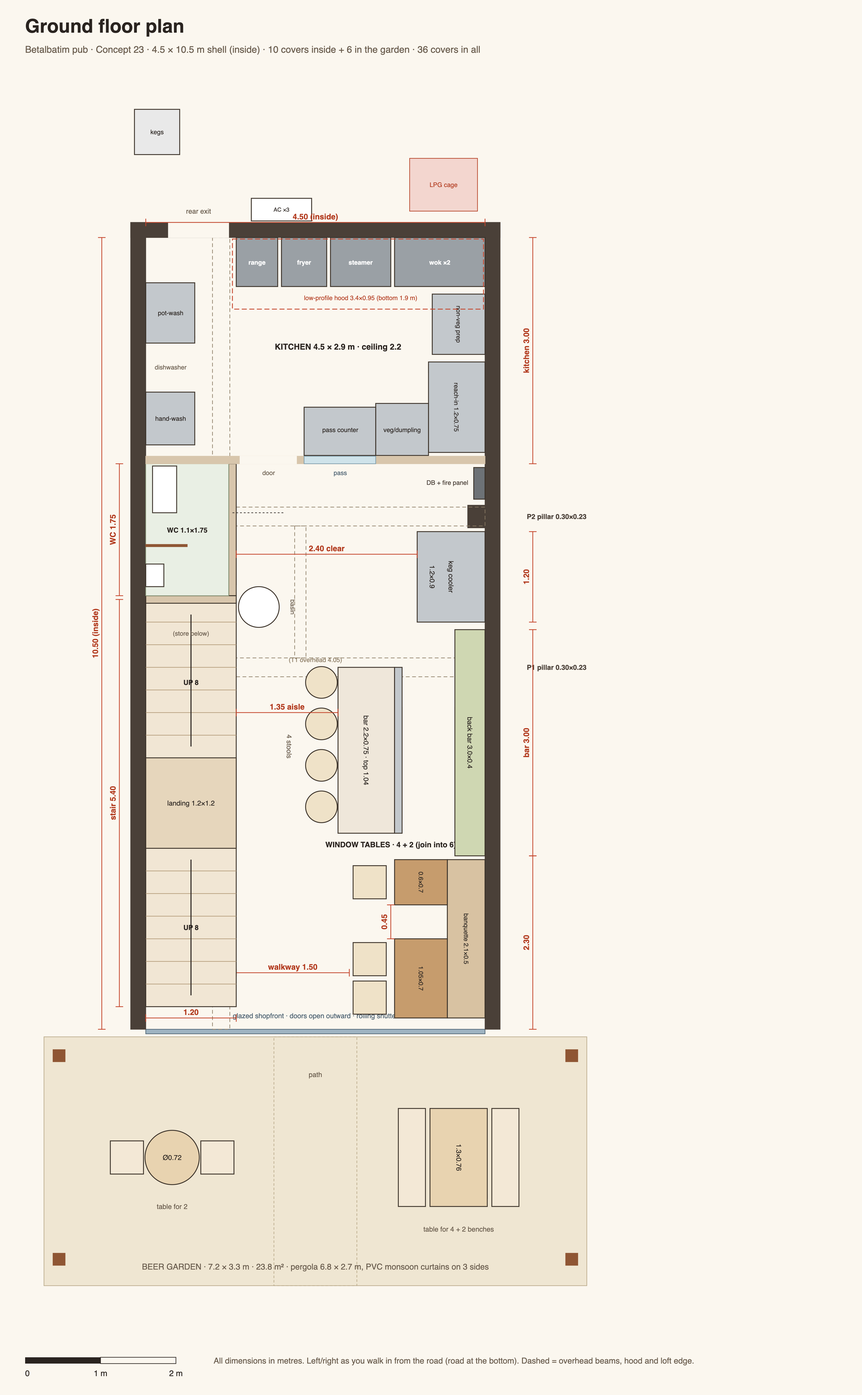
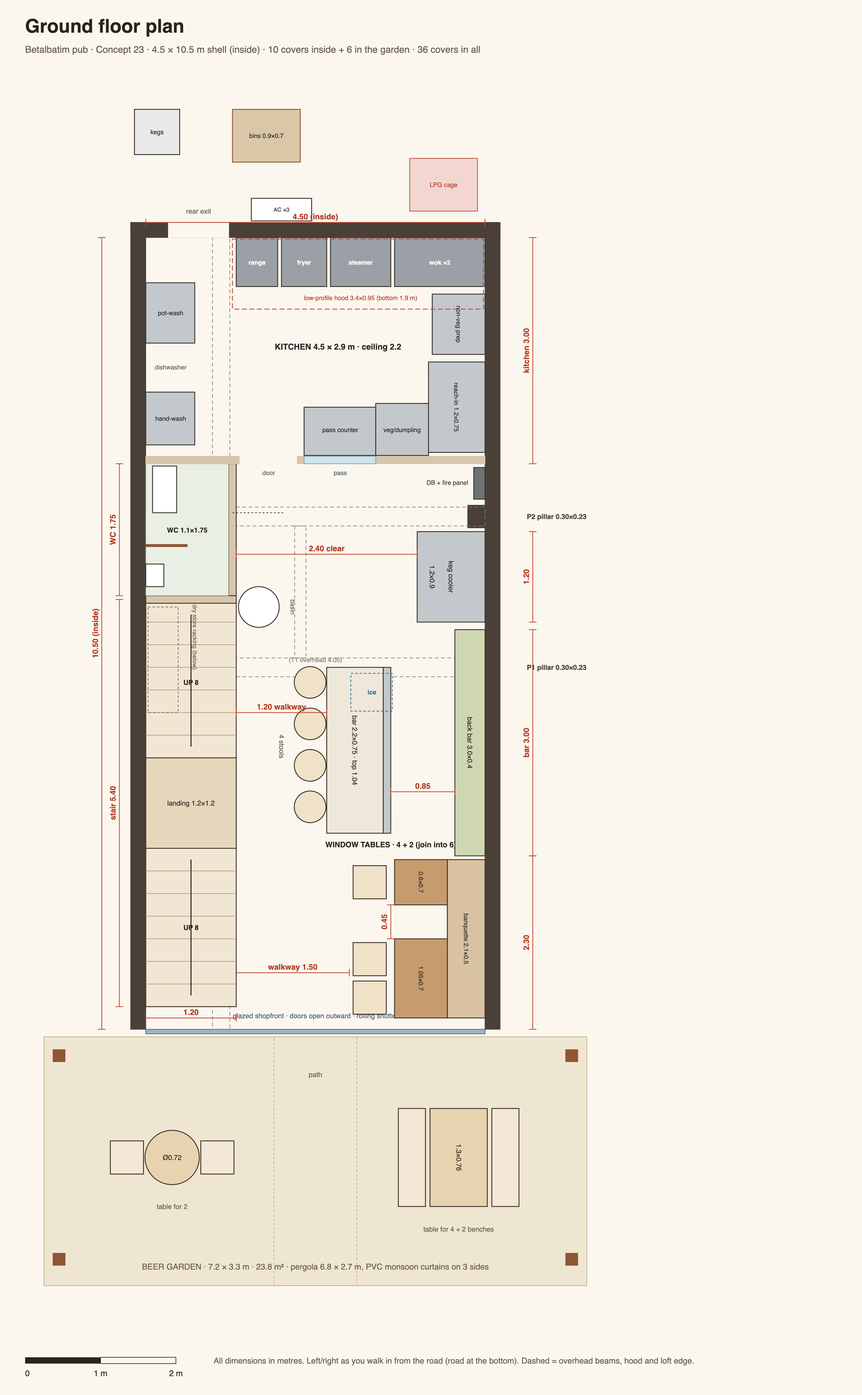
Pub model: ice machine, wider bartender aisle, bin store, dry store, front-bay fan
- Bar counter moved 0.15 m toward the walkway: bartender aisle 0.85 m
  (was 0.7); walkway beside the stools 1.2 m
- Under-counter ice machine (0.5 x 0.55 x 0.8, ~50 kg/day) at the far end
  of the bar, bartender side
- Bin store outside the rear door: slatted, lidded, wet/dry/glass bins,
  about 1.5 m from the LPG cage
- Dry-store racking (4 tiers, 1.4 x 0.4 x 1.8) in the locked under-stair
  store
- Front bay: 0.9 m hugger ceiling fan over the left high table (blades
  1.90 m above the loft floor)
- Labels, size list, size tags and both floor-plan PNGs updated

Changed region(s): [[0.312, 0.4676, 0.4679, 0.6234], [0.2496, 0.0623, 0.3743, 0.1247]]

diff --git a/betalbatim-pub-3d.html b/betalbatim-pub-3d.html
@@ -257,7 +257,8 @@ details.dims td.d{font:500 12px/1.45 var(--mono);color:var(--muted);text-align:r
       </table></details>
       <details class="dims" id="sz-bar"><summary>Bar &amp; back bar · 5.9 m² + 1.5 m² stool zone</summary><table>
         <tr><td>Bar counter</td><td class="d">2.2 L × 0.75 D m · top 1.04 H · curved end R 0.38 m</td></tr>
-        <tr><td>Bartender aisle</td><td class="d">0.7 m clear</td></tr>
+        <tr><td>Bartender aisle</td><td class="d">0.85 m clear (counter moved 0.15 m toward the walkway)</td></tr>
+        <tr><td>Ice machine (under-counter)</td><td class="d">0.5 W × 0.55 D × 0.8 H · ~50 kg/day, 20 kg bin · drain + water</td></tr>
         <tr><td>Under-counter station</td><td class="d">0.2 × 2.2 m: speed rail, ice well, sink, glasswasher</td></tr>
         <tr><td>Bar chairs (4)</td><td class="d">seat Ø 0.42 at 0.78 H · back to 1.21 H · 0.55 m apart</td></tr>
         <tr><td>Taps</td><td class="d">6 on 2 brass fonts, 1.1 m apart</td></tr>
@@ -324,6 +325,7 @@ details.dims td.d{font:500 12px/1.45 var(--mono);color:var(--muted);text-align:r
         <tr><td>Fresh-air supply grille</td><td class="d">0.55 × 0.42 m</td></tr>
       </table></details>
       <details class="dims" id="sz-loft"><summary>Loft · 20 covers · 22.6 m²</summary><table>
+        <tr><td>Ceiling fan (front bay)</td><td class="d">0.9 m hugger, 0.22 m drop · blades 1.90 m above the loft floor · centred over the left high table</td></tr>
         <tr><td>Front bay (5.4–6.7 m, full width)</td><td class="d">3.3 × 1.3 m · 2.12 m clear (1.87 under beam B) · drink ledge 0.28 D at 1.04 m on the rail · 2 round high tables Ø 0.6 × 1.05 H, 4 high chairs (seat 0.73)</td></tr>
         <tr><td>Planter under beam T2</td><td class="d">3.2 L × 0.22 D × 0.45 H m (keeps people out from under the 1.72 m beam)</td></tr>
         <tr><td>Landing bridge (left wall)</td><td class="d">1.2 W × 1.25 L m · 2.12 m clear · glass guard</td></tr>
@@ -416,6 +418,8 @@ details.dims td.d{font:500 12px/1.45 var(--mono);color:var(--muted);text-align:r
         <tr><td>Lit EXIT signs · <b>3</b></td><td class="d">maintained</td></tr>
       </table></details>
       <details class="dims" id="sz-services"><summary>Services, safety &amp; security</summary><table>
+        <tr><td>Bin store (outside, by the rear door)</td><td class="d">0.9 × 0.7 × 1.1 m · slatted, lidded · wet / dry / glass · ~1.5 m from the LPG cage</td></tr>
+        <tr><td>Dry-store racking (under-stair store)</td><td class="d">4 tiers · 1.4 L × 0.4 D × 1.8 H · steel</td></tr>
         <tr><td>AC total</td><td class="d">~5 TR: 2 × 1.5 TR ground + 2.0 TR loft · 3 outdoor units 0.8 × 0.55 × 0.3 m</td></tr>
         <tr><td>Kitchen exhaust duct</td><td class="d">0.5 × 0.4 m</td></tr>
         <tr><td>Fresh-air intake fan</td><td class="d">0.7 × 0.48 m</td></tr>
@@ -888,30 +892,34 @@ const SK=(shape,gl,cap,i)=>[shape,gl,cap,sBase+i];
 // a few working bottles and bitters on the back-bar top, in front of the altar
 [[3.42,SK('liq','ruby','gold',11)],[4.28,SK('gin','blue','silver',9)]].forEach(([z,k])=>bottle(k,X0+0.36,0.96,z,gr));
 [3.48,3.52,4.22].forEach((z,i)=>cyl(0.018,0.02,0.1,X0+0.4,0.96,z,glassT.amber,gr,8));
-for(let i=0;i<8;i++) bottle(KINDS[[3,2,4,6,3,1,9,2][i]],-1.05,0.55,2.85+i*0.12,gr);
+// BAR COUNTER group, moved 0.15 m toward the walkway so the bartender aisle is 0.85 m (was 0.7)
+const barG=new THREE.Group();barG.position.x=0.15;gr.add(barG);
+for(let i=0;i<8;i++) bottle(KINDS[[3,2,4,6,3,1,9,2][i]],-1.05,0.55,2.85+i*0.12,barG);
 bx(X0+0.03,X0+0.09,2.78,3.46,2.35,3.55,M.black,gr); plane(1.14,0.62,M.tv,X0+0.095,3.12,2.95,Math.PI/2,gr);
 [[bb0+0.05,3.3],[bb1-0.04,1.4]].forEach(([z,h])=>cyl(0.022,0.022,h,X0+0.07,0.96,z,M.neonRed,gr,8));
-bx(-0.95,-0.47,0.06,0.96,c0,c1,M.onyxGlow,gr); bx(-0.95,-0.45,0,0.06,c0,c1,M.black,gr); bx(-1.05,-0.3,0.98,1.04,c0,c1,M.marble,gr);
-bx(-0.47,-0.445,0.96,0.98,c0,c1,M.black,gr,false); plane(c1-c0,0.9,M.meshWire,-0.44,0.51,(c0+c1)/2,Math.PI/2,gr);
-for(let z=c0;z<=c1+0.01;z+=0.55) bx(-0.45,-0.42,0.06,0.96,z-0.015,z+0.015,M.black,gr);
-{const e=new THREE.Mesh(new THREE.CylinderGeometry(0.25,0.25,0.9,24,1,false,Math.PI/2,Math.PI),M.onyxGlow);e.position.set(-0.7,0.51,c0);gr.add(e);const em=new THREE.Mesh(new THREE.CylinderGeometry(0.262,0.262,0.9,24,1,true,Math.PI/2,Math.PI),M.meshWire);em.position.set(-0.7,0.51,c0);gr.add(em);const eb=new THREE.Mesh(new THREE.CylinderGeometry(0.26,0.26,0.06,24,1,false,Math.PI/2,Math.PI),M.black);eb.position.set(-0.7,0.03,c0);gr.add(eb);
- const t=new THREE.Mesh(new THREE.CylinderGeometry(0.375,0.375,0.06,24,1,false,Math.PI/2,Math.PI),M.marble);t.position.set(-0.675,1.01,c0);gr.add(t);
- const l=new THREE.Mesh(new THREE.CylinderGeometry(0.31,0.31,0.025,24,1,false,Math.PI/2,Math.PI),M.led);l.position.set(-0.69,0.955,c0);gr.add(l);}
-bx(-0.32,-0.29,0.97,1.045,c0,c1,M.brass,gr,false);
-bx(-0.36,-0.33,0.94,0.965,c0,c1,M.led,gr,false);
-bx(-0.46,-0.44,0.03,0.07,c0,c1,M.led,gr,false);
-rod(V(-0.27,0.22,c0),V(-0.27,0.22,c1),0.024,M.brass,gr);
-bx(-1.15,-0.95,0,0.85,c0,c1,M.ss,gr); bx(-1.13,-0.97,0.75,0.86,2.9,3.5,M.porcelain,gr); bx(-1.13,-0.97,0.7,0.86,4.0,4.4,M.ssDark,gr);
-[3.2,4.3].forEach((z,k)=>{cyl(0.045,0.05,0.42,-0.85,1.04,z,M.brass,gr);rod(V(-0.85,1.46,z-0.27),V(-0.85,1.46,z+0.27),0.034,M.brass,gr);
-  [-0.22,0,0.22].forEach((o,i)=>{cyl(0.012,0.012,0.08,-0.85,1.38,z+o,M.brass,gr,8);cyl(0.02,0.014,0.15,-0.85,1.48,z+o,cush[(i+k*2)%5],gr,8);});});
-[2.95,3.5,4.05,4.6].forEach(z=>stool(-0.08,z,gr));
-bx(-1.15,-0.35,2.63,2.65,c0+0.1,BZ-0.1,M.shelfGlass,gr,false); [-1.15,-0.35].forEach(x=>{[2.62,2.86].forEach(y=>rod(V(x,y,c0+0.1),V(x,y,BZ-0.1),0.014,M.brass,gr));bx(x-0.012,x+0.012,2.6,2.615,c0+0.1,BZ-0.1,M.greenLed,gr,false);[c0+0.1,BZ-0.1].forEach(z=>rod(V(x,2.62,z),V(x,2.86,z),0.012,M.brass,gr));});
-[c0+0.1,BZ-0.1].forEach(z=>[2.62,2.86].forEach(y=>rod(V(-1.15,y,z),V(-0.35,y,z),0.012,M.brass,gr)));
-[[-1.1,c0+0.2],[-1.1,BZ-0.2],[-0.4,c0+0.2],[-0.4,BZ-0.2]].forEach(([x,z])=>rod(V(x,2.67,z),V(x,H-0.2,z),0.008,M.black,gr));
-[[2.95,3.35]].forEach(([za,zb])=>{for(let x=-1.0;x<=-0.5;x+=0.16)for(let z=za;z<=zb;z+=0.13){const g=cyl(0.038,0.01,0.1,x,2.5,z,M.shelfGlass,gr,8);g.castShadow=false;}});
-[2.85,3.3].forEach(z=>{rod(V(-0.75,2.62,z),V(-0.75,2.26,z),0.005,M.black,gr);sph(0.11,-0.75,2.18,z,M.globe,gr);});
-[3.95,4.4].forEach(z=>{rod(V(-1.0,H,z),V(-1.0,2.62,z),0.005,M.black,gr);sph(0.11,-1.0,2.52,z,M.globe,gr);}); // bar pendants now hang the full height
-{const r=rng(77);for(let i=0;i<30;i++){const side=r()<.5?-1.17:-0.33;trail(side+(r()-.5)*0.05,2.72,c0+0.2+r()*0.75,0.25+r()*0.45,gr);}for(let z=c0+0.3;z<BZ-0.2;z+=0.5){const p=new THREE.Mesh(new THREE.SphereGeometry(0.16,8,6),M.leaf);p.scale.set(1.4,0.5,1);p.position.set(-0.75,2.75,z);gr.add(p);}}
+bx(-0.95,-0.47,0.06,0.96,c0,c1,M.onyxGlow,barG); bx(-0.95,-0.45,0,0.06,c0,c1,M.black,barG); bx(-1.05,-0.3,0.98,1.04,c0,c1,M.marble,barG);
+bx(-0.47,-0.445,0.96,0.98,c0,c1,M.black,barG,false); plane(c1-c0,0.9,M.meshWire,-0.44,0.51,(c0+c1)/2,Math.PI/2,barG);
+for(let z=c0;z<=c1+0.01;z+=0.55) bx(-0.45,-0.42,0.06,0.96,z-0.015,z+0.015,M.black,barG);
+{const e=new THREE.Mesh(new THREE.CylinderGeometry(0.25,0.25,0.9,24,1,false,Math.PI/2,Math.PI),M.onyxGlow);e.position.set(-0.7,0.51,c0);barG.add(e);const em=new THREE.Mesh(new THREE.CylinderGeometry(0.262,0.262,0.9,24,1,true,Math.PI/2,Math.PI),M.meshWire);em.position.set(-0.7,0.51,c0);barG.add(em);const eb=new THREE.Mesh(new THREE.CylinderGeometry(0.26,0.26,0.06,24,1,false,Math.PI/2,Math.PI),M.black);eb.position.set(-0.7,0.03,c0);barG.add(eb);
+ const t=new THREE.Mesh(new THREE.CylinderGeometry(0.375,0.375,0.06,24,1,false,Math.PI/2,Math.PI),M.marble);t.position.set(-0.675,1.01,c0);barG.add(t);
+ const l=new THREE.Mesh(new THREE.CylinderGeometry(0.31,0.31,0.025,24,1,false,Math.PI/2,Math.PI),M.led);l.position.set(-0.69,0.955,c0);barG.add(l);}
+bx(-0.32,-0.29,0.97,1.045,c0,c1,M.brass,barG,false);
+bx(-0.36,-0.33,0.94,0.965,c0,c1,M.led,barG,false);
+bx(-0.46,-0.44,0.03,0.07,c0,c1,M.led,barG,false);
+rod(V(-0.27,0.22,c0),V(-0.27,0.22,c1),0.024,M.brass,barG);
+bx(-1.15,-0.95,0,0.85,c0,c1,M.ss,barG); bx(-1.13,-0.97,0.75,0.86,2.9,3.5,M.porcelain,barG); bx(-1.13,-0.97,0.7,0.86,4.0,4.4,M.ssDark,barG);
+[3.2,4.3].forEach((z,k)=>{cyl(0.045,0.05,0.42,-0.85,1.04,z,M.brass,barG);rod(V(-0.85,1.46,z-0.27),V(-0.85,1.46,z+0.27),0.034,M.brass,barG);
+  [-0.22,0,0.22].forEach((o,i)=>{cyl(0.012,0.012,0.08,-0.85,1.38,z+o,M.brass,barG,8);cyl(0.02,0.014,0.15,-0.85,1.48,z+o,cush[(i+k*2)%5],barG,8);});});
+[2.95,3.5,4.05,4.6].forEach(z=>stool(-0.08,z,barG));
+// UNDER-COUNTER ICE MACHINE (bartender side, far end): 0.5 W × 0.55 D × 0.8 H, ~50 kg/day with a 20 kg bin; drain + water feed below
+bx(-1.17,-1.15,0.06,0.8,4.22,4.72,M.ss,barG); bx(-1.18,-1.17,0.62,0.72,4.3,4.64,M.ssDark,barG,false); for(let y=0.12;y<0.4;y+=0.05)bx(-1.18,-1.17,y,y+0.02,4.28,4.66,M.black,barG,false);
+bx(-1.15,-0.35,2.63,2.65,c0+0.1,BZ-0.1,M.shelfGlass,barG,false); [-1.15,-0.35].forEach(x=>{[2.62,2.86].forEach(y=>rod(V(x,y,c0+0.1),V(x,y,BZ-0.1),0.014,M.brass,barG));bx(x-0.012,x+0.012,2.6,2.615,c0+0.1,BZ-0.1,M.greenLed,barG,false);[c0+0.1,BZ-0.1].forEach(z=>rod(V(x,2.62,z),V(x,2.86,z),0.012,M.brass,barG));});
+[c0+0.1,BZ-0.1].forEach(z=>[2.62,2.86].forEach(y=>rod(V(-1.15,y,z),V(-0.35,y,z),0.012,M.brass,barG)));
+[[-1.1,c0+0.2],[-1.1,BZ-0.2],[-0.4,c0+0.2],[-0.4,BZ-0.2]].forEach(([x,z])=>rod(V(x,2.67,z),V(x,H-0.2,z),0.008,M.black,barG));
+[[2.95,3.35]].forEach(([za,zb])=>{for(let x=-1.0;x<=-0.5;x+=0.16)for(let z=za;z<=zb;z+=0.13){const g=cyl(0.038,0.01,0.1,x,2.5,z,M.shelfGlass,barG,8);g.castShadow=false;}});
+[2.85,3.3].forEach(z=>{rod(V(-0.75,2.62,z),V(-0.75,2.26,z),0.005,M.black,barG);sph(0.11,-0.75,2.18,z,M.globe,barG);});
+[3.95,4.4].forEach(z=>{rod(V(-1.0,H,z),V(-1.0,2.62,z),0.005,M.black,barG);sph(0.11,-1.0,2.52,z,M.globe,barG);}); // bar pendants now hang the full height
+{const r=rng(77);for(let i=0;i<30;i++){const side=r()<.5?-1.17:-0.33;trail(side+(r()-.5)*0.05,2.72,c0+0.2+r()*0.75,0.25+r()*0.45,barG);}for(let z=c0+0.3;z<BZ-0.2;z+=0.5){const p=new THREE.Mesh(new THREE.SphereGeometry(0.16,8,6),M.leaf);p.scale.set(1.4,0.5,1);p.position.set(-0.75,2.75,z);barG.add(p);}}
 // SERVER STATION (right, behind the bar's end, beside the kitchen pass)
 // KEG COOLER under the server station: 0.75 m deep, 2 m long, 2–4 °C. Glass doors show 10 × 20 L kegs (6 on tap + 4 spares); the end bay holds the CO2 cylinder
 {const kx1=-1.35,kz0=5.4,kz1=6.6,bay=6.31;
@@ -1426,6 +1434,25 @@ PIL.forEach(z=>bx(X0-0.01,X0+PD,0,H+0.01,z-PW/2,z+PW/2,M.plaster,G.wallR));
 // Along the stair (z 0–5.7) the left-wall ledge is shown trimmed flush: it sits at head height over the top flight.
 [[0.0,4.65],[4.95,6.65],[6.95,D-0.15]].forEach(([z0,z1])=>bx(X0,X0+PD,2.45,2.65,z0,z1,M.plaster,G.wallR));
 bx(X0+PD,X1,2.45,2.65,D-0.15,D,M.plaster,G.wallB); bx(X1-0.15,X1,2.45,2.65,5.7,D-0.15,M.brick,G.wallL);
+
+// BIN STORE outside the rear door: closed, slatted and ventilated, 0.9 × 0.7 × 1.1 m with a lid; wet (green), dry (blue), glass (grey) bins.
+// About 1.5 m from the LPG cage, clear of the rear door's swing
+{const a=0.2,b=1.1,c=D+1.0,d=D+1.7;bx(a,b,0,0.06,c,d,M.concrete,G.ext,false);
+ [[a,a+0.03],[b-0.03,b]].forEach(([x0,x1])=>bx(x0,x1,0.06,1.1,c,d,M.timberDark,G.ext));
+ for(let y=0.12;y<1.05;y+=0.12){bx(a,b,y,y+0.07,d-0.03,d,M.timber,G.ext);bx(a,b,y,y+0.07,c,c+0.03,M.timber,G.ext);}
+ bx(a-0.03,b+0.03,1.1,1.14,c-0.03,d+0.03,M.timberDark,G.ext);
+ [[0.42,M.leaf],[0.65,S({color:'#2f5f9a',roughness:0.6})],[0.88,M.steel]].forEach(([x,m])=>{cyl(0.1,0.09,0.55,x,0.06,c+0.35,m,G.ext,14);});}
+// DRY STORE racking inside the locked under-stair store: 4-tier steel shelving 1.4 L × 0.4 D, up to 1.8 m (rice, flour, sauces, takeaway packaging)
+{for(const y of [0.1,0.55,1.0,1.45])bx(1.82,2.22,y,y+0.025,4.2,5.6,M.ss,gr);[4.2,5.58].forEach(z=>[1.83,2.2].forEach(x=>bx(x,x+0.02,0,1.8,z,z+0.02,M.ss,gr)));
+ for(let z=4.3;z<5.5;z+=0.28)[0.1,0.55,1.0].forEach((y,k)=>bx(1.86,2.18,y+0.025,y+0.3,z,z+0.2,k===1?M.cane:M.linen,gr));}
+
+// CEILING FAN in the front bay: low-profile "hugger" fan, 0.9 m (36") 3 cane-weave blades, black motor with a brass trim, flush to the slab.
+// Blades at 4.28 m = 1.90 m above the loft floor, so it is centred over the left high table (seated guests only, nobody stands under it).
+{const fx=-1.25,fz=5.98,y0=H,G2=G.loft;
+ cyl(0.08,0.08,0.03,fx,y0-0.03,fz,M.black,G2,20); cyl(0.12,0.14,0.13,fx,y0-0.16,fz,M.black,G2,24); cyl(0.142,0.142,0.012,fx,y0-0.17,fz,M.brass,G2,24);
+ cyl(0.07,0.05,0.05,fx,y0-0.22,fz,M.globe,G2,16);
+ for(let i=0;i<3;i++){const a=i*Math.PI*2/3+0.4;const bl=new THREE.Mesh(new THREE.BoxGeometry(0.33,0.012,0.11),M.cane);bl.position.set(fx+Math.cos(a)*0.28,y0-0.225,fz+Math.sin(a)*0.28);bl.rotation.y=-a;G2.add(bl);
+   const arm=new THREE.Mesh(new THREE.BoxGeometry(0.14,0.012,0.04),M.black);arm.position.set(fx+Math.cos(a)*0.12,y0-0.22,fz+Math.sin(a)*0.12);arm.rotation.y=-a;G2.add(arm);}}
 // ---------- labels ----------
 const LBL=[
  ['Beer garden · 6',0,3.3,-1.7,'o'],['Mist fan',-2.9,1.95,-1.7,'o'],['Mist fan',2.95,1.95,-2.95,'o'],['Misting line on the pergola',3.28,2.95,-1.6,'o'],['Chalkboard',1.05,1.3,-3.75,'o'],
@@ -1474,7 +1501,7 @@ const U=0.006;
 tag('GROUND FLOOR 4.5 × 10.5 m · 47.3 m²',1.6,0.25,U+0.002,1.95,'up');
 tag('1.05 × 0.7 · h 0.76',0.5,-1.4,0.76+U,0.675,'up'); tag('0.6 × 0.7',0.35,-1.4,0.76+U,1.95,'up'); tag('gap 0.45',0.3,-1.4,U,1.43,'up');
 tag('banquette 2.1 × 0.5 · seat 0.47',0.65,-2.0,0.5+U,1.2,'up','z'); tag('walkway 1.5 m',0.5,0.3,U,1.0,'up');
-tag('bar counter 2.2 × 0.75 · top 1.04',0.68,-0.67,1.04+U,3.75,'up','z');
+tag('bar counter 2.2 × 0.75 · top 1.04',0.68,-0.52,1.04+U,3.75,'up','z'); tag('bartender aisle 0.85',0.45,-1.5,U,3.75,'up','z');
 tag('back bar 3.0 × 0.4 · h 0.96',0.8,-1.84,0.5,3.2,'+x');
 tag('keg cooler 1.2 × 0.9 · h 0.9',0.8,-1.33,0.55,5.95,'+x');
 tag('stair 1.2 wide · 16 × 149 mm / 300 mm',1.05,1.65,8*SRH+U,3.0,'up');
@@ -1506,6 +1533,8 @@ tag('LOFT 22.6 m² · floor +2.38 · headroom 2.12',1.6,X1-0.012,3.05,7.35,'-x')
 // garden
 tag('GARDEN 7.2 × 3.3 m · 23.8 m²',1.5,0,0.002,-0.55,'up');
 tag('1.3 × 0.76 · h 0.78',0.55,-1.9,0.78+U,-1.7,'up','z'); tag('Ø 0.72 · h 0.77',0.5,1.9,0.77+U,-1.7,'up');
+LBL.push(['Ice machine · under-counter, ~50 kg/day',-1.0,0.95,4.47,'g'],['Bartender aisle 0.85 m',-1.5,0.3,3.6,'g'],['Bin store · wet / dry / glass',0.65,1.35,D+1.35,'k'],['Dry-store racking in the locked under-stair store',2.0,1.95,4.9,'g']);
+LBL.push(['Ceiling fan · 0.9 m hugger, blades 1.90 m above the loft floor (over the table)',-1.25,4.15,5.98,'u']);
 const labelsEl=document.getElementById('labels');
 const labels=LBL.map(([t,x,y,z,f,w])=>{const d=document.createElement('div');d.className='lbl '+f;d.innerHTML='<i></i>'+t;d.hidden=true;labelsEl.appendChild(d);return{el:d,p:V(x,y,z),f:f.split(' ')[0],w,shown:false};});
 

diff --git a/index.html b/index.html
@@ -257,7 +257,8 @@ details.dims td.d{font:500 12px/1.45 var(--mono);color:var(--muted);text-align:r
       </table></details>
       <details class="dims" id="sz-bar"><summary>Bar &amp; back bar · 5.9 m² + 1.5 m² stool zone</summary><table>
         <tr><td>Bar counter</td><td class="d">2.2 L × 0.75 D m · top 1.04 H · curved end R 0.38 m</td></tr>
-        <tr><td>Bartender aisle</td><td class="d">0.7 m clear</td></tr>
+        <tr><td>Bartender aisle</td><td class="d">0.85 m clear (counter moved 0.15 m toward the walkway)</td></tr>
+        <tr><td>Ice machine (under-counter)</td><td class="d">0.5 W × 0.55 D × 0.8 H · ~50 kg/day, 20 kg bin · drain + water</td></tr>
         <tr><td>Under-counter station</td><td class="d">0.2 × 2.2 m: speed rail, ice well, sink, glasswasher</td></tr>
         <tr><td>Bar chairs (4)</td><td class="d">seat Ø 0.42 at 0.78 H · back to 1.21 H · 0.55 m apart</td></tr>
         <tr><td>Taps</td><td class="d">6 on 2 brass fonts, 1.1 m apart</td></tr>
@@ -324,6 +325,7 @@ details.dims td.d{font:500 12px/1.45 var(--mono);color:var(--muted);text-align:r
         <tr><td>Fresh-air supply grille</td><td class="d">0.55 × 0.42 m</td></tr>
       </table></details>
       <details class="dims" id="sz-loft"><summary>Loft · 20 covers · 22.6 m²</summary><table>
+        <tr><td>Ceiling fan (front bay)</td><td class="d">0.9 m hugger, 0.22 m drop · blades 1.90 m above the loft floor · centred over the left high table</td></tr>
         <tr><td>Front bay (5.4–6.7 m, full width)</td><td class="d">3.3 × 1.3 m · 2.12 m clear (1.87 under beam B) · drink ledge 0.28 D at 1.04 m on the rail · 2 round high tables Ø 0.6 × 1.05 H, 4 high chairs (seat 0.73)</td></tr>
         <tr><td>Planter under beam T2</td><td class="d">3.2 L × 0.22 D × 0.45 H m (keeps people out from under the 1.72 m beam)</td></tr>
         <tr><td>Landing bridge (left wall)</td><td class="d">1.2 W × 1.25 L m · 2.12 m clear · glass guard</td></tr>
@@ -416,6 +418,8 @@ details.dims td.d{font:500 12px/1.45 var(--mono);color:var(--muted);text-align:r
         <tr><td>Lit EXIT signs · <b>3</b></td><td class="d">maintained</td></tr>
       </table></details>
       <details class="dims" id="sz-services"><summary>Services, safety &amp; security</summary><table>
+        <tr><td>Bin store (outside, by the rear door)</td><td class="d">0.9 × 0.7 × 1.1 m · slatted, lidded · wet / dry / glass · ~1.5 m from the LPG cage</td></tr>
+        <tr><td>Dry-store racking (under-stair store)</td><td class="d">4 tiers · 1.4 L × 0.4 D × 1.8 H · steel</td></tr>
         <tr><td>AC total</td><td class="d">~5 TR: 2 × 1.5 TR ground + 2.0 TR loft · 3 outdoor units 0.8 × 0.55 × 0.3 m</td></tr>
         <tr><td>Kitchen exhaust duct</td><td class="d">0.5 × 0.4 m</td></tr>
         <tr><td>Fresh-air intake fan</td><td class="d">0.7 × 0.48 m</td></tr>
@@ -888,30 +892,34 @@ const SK=(shape,gl,cap,i)=>[shape,gl,cap,sBase+i];
 // a few working bottles and bitters on the back-bar top, in front of the altar
 [[3.42,SK('liq','ruby','gold',11)],[4.28,SK('gin','blue','silver',9)]].forEach(([z,k])=>bottle(k,X0+0.36,0.96,z,gr));
 [3.48,3.52,4.22].forEach((z,i)=>cyl(0.018,0.02,0.1,X0+0.4,0.96,z,glassT.amber,gr,8));
-for(let i=0;i<8;i++) bottle(KINDS[[3,2,4,6,3,1,9,2][i]],-1.05,0.55,2.85+i*0.12,gr);
+// BAR COUNTER group, moved 0.15 m toward the walkway so the bartender aisle is 0.85 m (was 0.7)
+const barG=new THREE.Group();barG.position.x=0.15;gr.add(barG);
+for(let i=0;i<8;i++) bottle(KINDS[[3,2,4,6,3,1,9,2][i]],-1.05,0.55,2.85+i*0.12,barG);
 bx(X0+0.03,X0+0.09,2.78,3.46,2.35,3.55,M.black,gr); plane(1.14,0.62,M.tv,X0+0.095,3.12,2.95,Math.PI/2,gr);
 [[bb0+0.05,3.3],[bb1-0.04,1.4]].forEach(([z,h])=>cyl(0.022,0.022,h,X0+0.07,0.96,z,M.neonRed,gr,8));
-bx(-0.95,-0.47,0.06,0.96,c0,c1,M.onyxGlow,gr); bx(-0.95,-0.45,0,0.06,c0,c1,M.black,gr); bx(-1.05,-0.3,0.98,1.04,c0,c1,M.marble,gr);
-bx(-0.47,-0.445,0.96,0.98,c0,c1,M.black,gr,false); plane(c1-c0,0.9,M.meshWire,-0.44,0.51,(c0+c1)/2,Math.PI/2,gr);
-for(let z=c0;z<=c1+0.01;z+=0.55) bx(-0.45,-0.42,0.06,0.96,z-0.015,z+0.015,M.black,gr);
-{const e=new THREE.Mesh(new THREE.CylinderGeometry(0.25,0.25,0.9,24,1,false,Math.PI/2,Math.PI),M.onyxGlow);e.position.set(-0.7,0.51,c0);gr.add(e);const em=new THREE.Mesh(new THREE.CylinderGeometry(0.262,0.262,0.9,24,1,true,Math.PI/2,Math.PI),M.meshWire);em.position.set(-0.7,0.51,c0);gr.add(em);const eb=new THREE.Mesh(new THREE.CylinderGeometry(0.26,0.26,0.06,24,1,false,Math.PI/2,Math.PI),M.black);eb.position.set(-0.7,0.03,c0);gr.add(eb);
- const t=new THREE.Mesh(new THREE.CylinderGeometry(0.375,0.375,0.06,24,1,false,Math.PI/2,Math.PI),M.marble);t.position.set(-0.675,1.01,c0);gr.add(t);
- const l=new THREE.Mesh(new THREE.CylinderGeometry(0.31,0.31,0.025,24,1,false,Math.PI/2,Math.PI),M.led);l.position.set(-0.69,0.955,c0);gr.add(l);}
-bx(-0.32,-0.29,0.97,1.045,c0,c1,M.brass,gr,false);
-bx(-0.36,-0.33,0.94,0.965,c0,c1,M.led,gr,false);
-bx(-0.46,-0.44,0.03,0.07,c0,c1,M.led,gr,false);
-rod(V(-0.27,0.22,c0),V(-0.27,0.22,c1),0.024,M.brass,gr);
-bx(-1.15,-0.95,0,0.85,c0,c1,M.ss,gr); bx(-1.13,-0.97,0.75,0.86,2.9,3.5,M.porcelain,gr); bx(-1.13,-0.97,0.7,0.86,4.0,4.4,M.ssDark,gr);
-[3.2,4.3].forEach((z,k)=>{cyl(0.045,0.05,0.42,-0.85,1.04,z,M.brass,gr);rod(V(-0.85,1.46,z-0.27),V(-0.85,1.46,z+0.27),0.034,M.brass,gr);
-  [-0.22,0,0.22].forEach((o,i)=>{cyl(0.012,0.012,0.08,-0.85,1.38,z+o,M.brass,gr,8);cyl(0.02,0.014,0.15,-0.85,1.48,z+o,cush[(i+k*2)%5],gr,8);});});
-[2.95,3.5,4.05,4.6].forEach(z=>stool(-0.08,z,gr));
-bx(-1.15,-0.35,2.63,2.65,c0+0.1,BZ-0.1,M.shelfGlass,gr,false); [-1.15,-0.35].forEach(x=>{[2.62,2.86].forEach(y=>rod(V(x,y,c0+0.1),V(x,y,BZ-0.1),0.014,M.brass,gr));bx(x-0.012,x+0.012,2.6,2.615,c0+0.1,BZ-0.1,M.greenLed,gr,false);[c0+0.1,BZ-0.1].forEach(z=>rod(V(x,2.62,z),V(x,2.86,z),0.012,M.brass,gr));});
-[c0+0.1,BZ-0.1].forEach(z=>[2.62,2.86].forEach(y=>rod(V(-1.15,y,z),V(-0.35,y,z),0.012,M.brass,gr)));
-[[-1.1,c0+0.2],[-1.1,BZ-0.2],[-0.4,c0+0.2],[-0.4,BZ-0.2]].forEach(([x,z])=>rod(V(x,2.67,z),V(x,H-0.2,z),0.008,M.black,gr));
-[[2.95,3.35]].forEach(([za,zb])=>{for(let x=-1.0;x<=-0.5;x+=0.16)for(let z=za;z<=zb;z+=0.13){const g=cyl(0.038,0.01,0.1,x,2.5,z,M.shelfGlass,gr,8);g.castShadow=false;}});
-[2.85,3.3].forEach(z=>{rod(V(-0.75,2.62,z),V(-0.75,2.26,z),0.005,M.black,gr);sph(0.11,-0.75,2.18,z,M.globe,gr);});
-[3.95,4.4].forEach(z=>{rod(V(-1.0,H,z),V(-1.0,2.62,z),0.005,M.black,gr);sph(0.11,-1.0,2.52,z,M.globe,gr);}); // bar pendants now hang the full height
-{const r=rng(77);for(let i=0;i<30;i++){const side=r()<.5?-1.17:-0.33;trail(side+(r()-.5)*0.05,2.72,c0+0.2+r()*0.75,0.25+r()*0.45,gr);}for(let z=c0+0.3;z<BZ-0.2;z+=0.5){const p=new THREE.Mesh(new THREE.SphereGeometry(0.16,8,6),M.leaf);p.scale.set(1.4,0.5,1);p.position.set(-0.75,2.75,z);gr.add(p);}}
+bx(-0.95,-0.47,0.06,0.96,c0,c1,M.onyxGlow,barG); bx(-0.95,-0.45,0,0.06,c0,c1,M.black,barG); bx(-1.05,-0.3,0.98,1.04,c0,c1,M.marble,barG);
+bx(-0.47,-0.445,0.96,0.98,c0,c1,M.black,barG,false); plane(c1-c0,0.9,M.meshWire,-0.44,0.51,(c0+c1)/2,Math.PI/2,barG);
+for(let z=c0;z<=c1+0.01;z+=0.55) bx(-0.45,-0.42,0.06,0.96,z-0.015,z+0.015,M.black,barG);
+{const e=new THREE.Mesh(new THREE.CylinderGeometry(0.25,0.25,0.9,24,1,false,Math.PI/2,Math.PI),M.onyxGlow);e.position.set(-0.7,0.51,c0);barG.add(e);const em=new THREE.Mesh(new THREE.CylinderGeometry(0.262,0.262,0.9,24,1,true,Math.PI/2,Math.PI),M.meshWire);em.position.set(-0.7,0.51,c0);barG.add(em);const eb=new THREE.Mesh(new THREE.CylinderGeometry(0.26,0.26,0.06,24,1,false,Math.PI/2,Math.PI),M.black);eb.position.set(-0.7,0.03,c0);barG.add(eb);
+ const t=new THREE.Mesh(new THREE.CylinderGeometry(0.375,0.375,0.06,24,1,false,Math.PI/2,Math.PI),M.marble);t.position.set(-0.675,1.01,c0);barG.add(t);
+ const l=new THREE.Mesh(new THREE.CylinderGeometry(0.31,0.31,0.025,24,1,false,Math.PI/2,Math.PI),M.led);l.position.set(-0.69,0.955,c0);barG.add(l);}
+bx(-0.32,-0.29,0.97,1.045,c0,c1,M.brass,barG,false);
+bx(-0.36,-0.33,0.94,0.965,c0,c1,M.led,barG,false);
+bx(-0.46,-0.44,0.03,0.07,c0,c1,M.led,barG,false);
+rod(V(-0.27,0.22,c0),V(-0.27,0.22,c1),0.024,M.brass,barG);
+bx(-1.15,-0.95,0,0.85,c0,c1,M.ss,barG); bx(-1.13,-0.97,0.75,0.86,2.9,3.5,M.porcelain,barG); bx(-1.13,-0.97,0.7,0.86,4.0,4.4,M.ssDark,barG);
+[3.2,4.3].forEach((z,k)=>{cyl(0.045,0.05,0.42,-0.85,1.04,z,M.brass,barG);rod(V(-0.85,1.46,z-0.27),V(-0.85,1.46,z+0.27),0.034,M.brass,barG);
+  [-0.22,0,0.22].forEach((o,i)=>{cyl(0.012,0.012,0.08,-0.85,1.38,z+o,M.brass,barG,8);cyl(0.02,0.014,0.15,-0.85,1.48,z+o,cush[(i+k*2)%5],barG,8);});});
+[2.95,3.5,4.05,4.6].forEach(z=>stool(-0.08,z,barG));
+// UNDER-COUNTER ICE MACHINE (bartender side, far end): 0.5 W × 0.55 D × 0.8 H, ~50 kg/day with a 20 kg bin; drain + water feed below
+bx(-1.17,-1.15,0.06,0.8,4.22,4.72,M.ss,barG); bx(-1.18,-1.17,0.62,0.72,4.3,4.64,M.ssDark,barG,false); for(let y=0.12;y<0.4;y+=0.05)bx(-1.18,-1.17,y,y+0.02,4.28,4.66,M.black,barG,false);
+bx(-1.15,-0.35,2.63,2.65,c0+0.1,BZ-0.1,M.shelfGlass,barG,false); [-1.15,-0.35].forEach(x=>{[2.62,2.86].forEach(y=>rod(V(x,y,c0+0.1),V(x,y,BZ-0.1),0.014,M.brass,barG));bx(x-0.012,x+0.012,2.6,2.615,c0+0.1,BZ-0.1,M.greenLed,barG,false);[c0+0.1,BZ-0.1].forEach(z=>rod(V(x,2.62,z),V(x,2.86,z),0.012,M.brass,barG));});
+[c0+0.1,BZ-0.1].forEach(z=>[2.62,2.86].forEach(y=>rod(V(-1.15,y,z),V(-0.35,y,z),0.012,M.brass,barG)));
+[[-1.1,c0+0.2],[-1.1,BZ-0.2],[-0.4,c0+0.2],[-0.4,BZ-0.2]].forEach(([x,z])=>rod(V(x,2.67,z),V(x,H-0.2,z),0.008,M.black,barG));
+[[2.95,3.35]].forEach(([za,zb])=>{for(let x=-1.0;x<=-0.5;x+=0.16)for(let z=za;z<=zb;z+=0.13){const g=cyl(0.038,0.01,0.1,x,2.5,z,M.shelfGlass,barG,8);g.castShadow=false;}});
+[2.85,3.3].forEach(z=>{rod(V(-0.75,2.62,z),V(-0.75,2.26,z),0.005,M.black,barG);sph(0.11,-0.75,2.18,z,M.globe,barG);});
+[3.95,4.4].forEach(z=>{rod(V(-1.0,H,z),V(-1.0,2.62,z),0.005,M.black,barG);sph(0.11,-1.0,2.52,z,M.globe,barG);}); // bar pendants now hang the full height
+{const r=rng(77);for(let i=0;i<30;i++){const side=r()<.5?-1.17:-0.33;trail(side+(r()-.5)*0.05,2.72,c0+0.2+r()*0.75,0.25+r()*0.45,barG);}for(let z=c0+0.3;z<BZ-0.2;z+=0.5){const p=new THREE.Mesh(new THREE.SphereGeometry(0.16,8,6),M.leaf);p.scale.set(1.4,0.5,1);p.position.set(-0.75,2.75,z);barG.add(p);}}
 // SERVER STATION (right, behind the bar's end, beside the kitchen pass)
 // KEG COOLER under the server station: 0.75 m deep, 2 m long, 2–4 °C. Glass doors show 10 × 20 L kegs (6 on tap + 4 spares); the end bay holds the CO2 cylinder
 {const kx1=-1.35,kz0=5.4,kz1=6.6,bay=6.31;
@@ -1426,6 +1434,25 @@ PIL.forEach(z=>bx(X0-0.01,X0+PD,0,H+0.01,z-PW/2,z+PW/2,M.plaster,G.wallR));
 // Along the stair (z 0–5.7) the left-wall ledge is shown trimmed flush: it sits at head height over the top flight.
 [[0.0,4.65],[4.95,6.65],[6.95,D-0.15]].forEach(([z0,z1])=>bx(X0,X0+PD,2.45,2.65,z0,z1,M.plaster,G.wallR));
 bx(X0+PD,X1,2.45,2.65,D-0.15,D,M.plaster,G.wallB); bx(X1-0.15,X1,2.45,2.65,5.7,D-0.15,M.brick,G.wallL);
+
+// BIN STORE outside the rear door: closed, slatted and ventilated, 0.9 × 0.7 × 1.1 m with a lid; wet (green), dry (blue), glass (grey) bins.
+// About 1.5 m from the LPG cage, clear of the rear door's swing
+{const a=0.2,b=1.1,c=D+1.0,d=D+1.7;bx(a,b,0,0.06,c,d,M.concrete,G.ext,false);
+ [[a,a+0.03],[b-0.03,b]].forEach(([x0,x1])=>bx(x0,x1,0.06,1.1,c,d,M.timberDark,G.ext));
+ for(let y=0.12;y<1.05;y+=0.12){bx(a,b,y,y+0.07,d-0.03,d,M.timber,G.ext);bx(a,b,y,y+0.07,c,c+0.03,M.timber,G.ext);}
+ bx(a-0.03,b+0.03,1.1,1.14,c-0.03,d+0.03,M.timberDark,G.ext);
+ [[0.42,M.leaf],[0.65,S({color:'#2f5f9a',roughness:0.6})],[0.88,M.steel]].forEach(([x,m])=>{cyl(0.1,0.09,0.55,x,0.06,c+0.35,m,G.ext,14);});}
+// DRY STORE racking inside the locked under-stair store: 4-tier steel shelving 1.4 L × 0.4 D, up to 1.8 m (rice, flour, sauces, takeaway packaging)
+{for(const y of [0.1,0.55,1.0,1.45])bx(1.82,2.22,y,y+0.025,4.2,5.6,M.ss,gr);[4.2,5.58].forEach(z=>[1.83,2.2].forEach(x=>bx(x,x+0.02,0,1.8,z,z+0.02,M.ss,gr)));
+ for(let z=4.3;z<5.5;z+=0.28)[0.1,0.55,1.0].forEach((y,k)=>bx(1.86,2.18,y+0.025,y+0.3,z,z+0.2,k===1?M.cane:M.linen,gr));}
+
+// CEILING FAN in the front bay: low-profile "hugger" fan, 0.9 m (36") 3 cane-weave blades, black motor with a brass trim, flush to the slab.
+// Blades at 4.28 m = 1.90 m above the loft floor, so it is centred over the left high table (seated guests only, nobody stands under it).
+{const fx=-1.25,fz=5.98,y0=H,G2=G.loft;
+ cyl(0.08,0.08,0.03,fx,y0-0.03,fz,M.black,G2,20); cyl(0.12,0.14,0.13,fx,y0-0.16,fz,M.black,G2,24); cyl(0.142,0.142,0.012,fx,y0-0.17,fz,M.brass,G2,24);
+ cyl(0.07,0.05,0.05,fx,y0-0.22,fz,M.globe,G2,16);
+ for(let i=0;i<3;i++){const a=i*Math.PI*2/3+0.4;const bl=new THREE.Mesh(new THREE.BoxGeometry(0.33,0.012,0.11),M.cane);bl.position.set(fx+Math.cos(a)*0.28,y0-0.225,fz+Math.sin(a)*0.28);bl.rotation.y=-a;G2.add(bl);
+   const arm=new THREE.Mesh(new THREE.BoxGeometry(0.14,0.012,0.04),M.black);arm.position.set(fx+Math.cos(a)*0.12,y0-0.22,fz+Math.sin(a)*0.12);arm.rotation.y=-a;G2.add(arm);}}
 // ---------- labels ----------
 const LBL=[
  ['Beer garden · 6',0,3.3,-1.7,'o'],['Mist fan',-2.9,1.95,-1.7,'o'],['Mist fan',2.95,1.95,-2.95,'o'],['Misting line on the pergola',3.28,2.95,-1.6,'o'],['Chalkboard',1.05,1.3,-3.75,'o'],
@@ -1474,7 +1501,7 @@ const U=0.006;
 tag('GROUND FLOOR 4.5 × 10.5 m · 47.3 m²',1.6,0.25,U+0.002,1.95,'up');
 tag('1.05 × 0.7 · h 0.76',0.5,-1.4,0.76+U,0.675,'up'); tag('0.6 × 0.7',0.35,-1.4,0.76+U,1.95,'up'); tag('gap 0.45',0.3,-1.4,U,1.43,'up');
 tag('banquette 2.1 × 0.5 · seat 0.47',0.65,-2.0,0.5+U,1.2,'up','z'); tag('walkway 1.5 m',0.5,0.3,U,1.0,'up');
-tag('bar counter 2.2 × 0.75 · top 1.04',0.68,-0.67,1.04+U,3.75,'up','z');
+tag('bar counter 2.2 × 0.75 · top 1.04',0.68,-0.52,1.04+U,3.75,'up','z'); tag('bartender aisle 0.85',0.45,-1.5,U,3.75,'up','z');
 tag('back bar 3.0 × 0.4 · h 0.96',0.8,-1.84,0.5,3.2,'+x');
 tag('keg cooler 1.2 × 0.9 · h 0.9',0.8,-1.33,0.55,5.95,'+x');
 tag('stair 1.2 wide · 16 × 149 mm / 300 mm',1.05,1.65,8*SRH+U,3.0,'up');
@@ -1506,6 +1533,8 @@ tag('LOFT 22.6 m² · floor +2.38 · headroom 2.12',1.6,X1-0.012,3.05,7.35,'-x')
 // garden
 tag('GARDEN 7.2 × 3.3 m · 23.8 m²',1.5,0,0.002,-0.55,'up');
 tag('1.3 × 0.76 · h 0.78',0.55,-1.9,0.78+U,-1.7,'up','z'); tag('Ø 0.72 · h 0.77',0.5,1.9,0.77+U,-1.7,'up');
+LBL.push(['Ice machine · under-counter, ~50 kg/day',-1.0,0.95,4.47,'g'],['Bartender aisle 0.85 m',-1.5,0.3,3.6,'g'],['Bin store · wet / dry / glass',0.65,1.35,D+1.35,'k'],['Dry-store racking in the locked under-stair store',2.0,1.95,4.9,'g']);
+LBL.push(['Ceiling fan · 0.9 m hugger, blades 1.90 m above the loft floor (over the table)',-1.25,4.15,5.98,'u']);
 const labelsEl=document.getElementById('labels');
 const labels=LBL.map(([t,x,y,z,f,w])=>{const d=document.createElement('div');d.className='lbl '+f;d.innerHTML='<i></i>'+t;d.hidden=true;labelsEl.appendChild(d);return{el:d,p:V(x,y,z),f:f.split(' ')[0],w,shown:false};});
 
